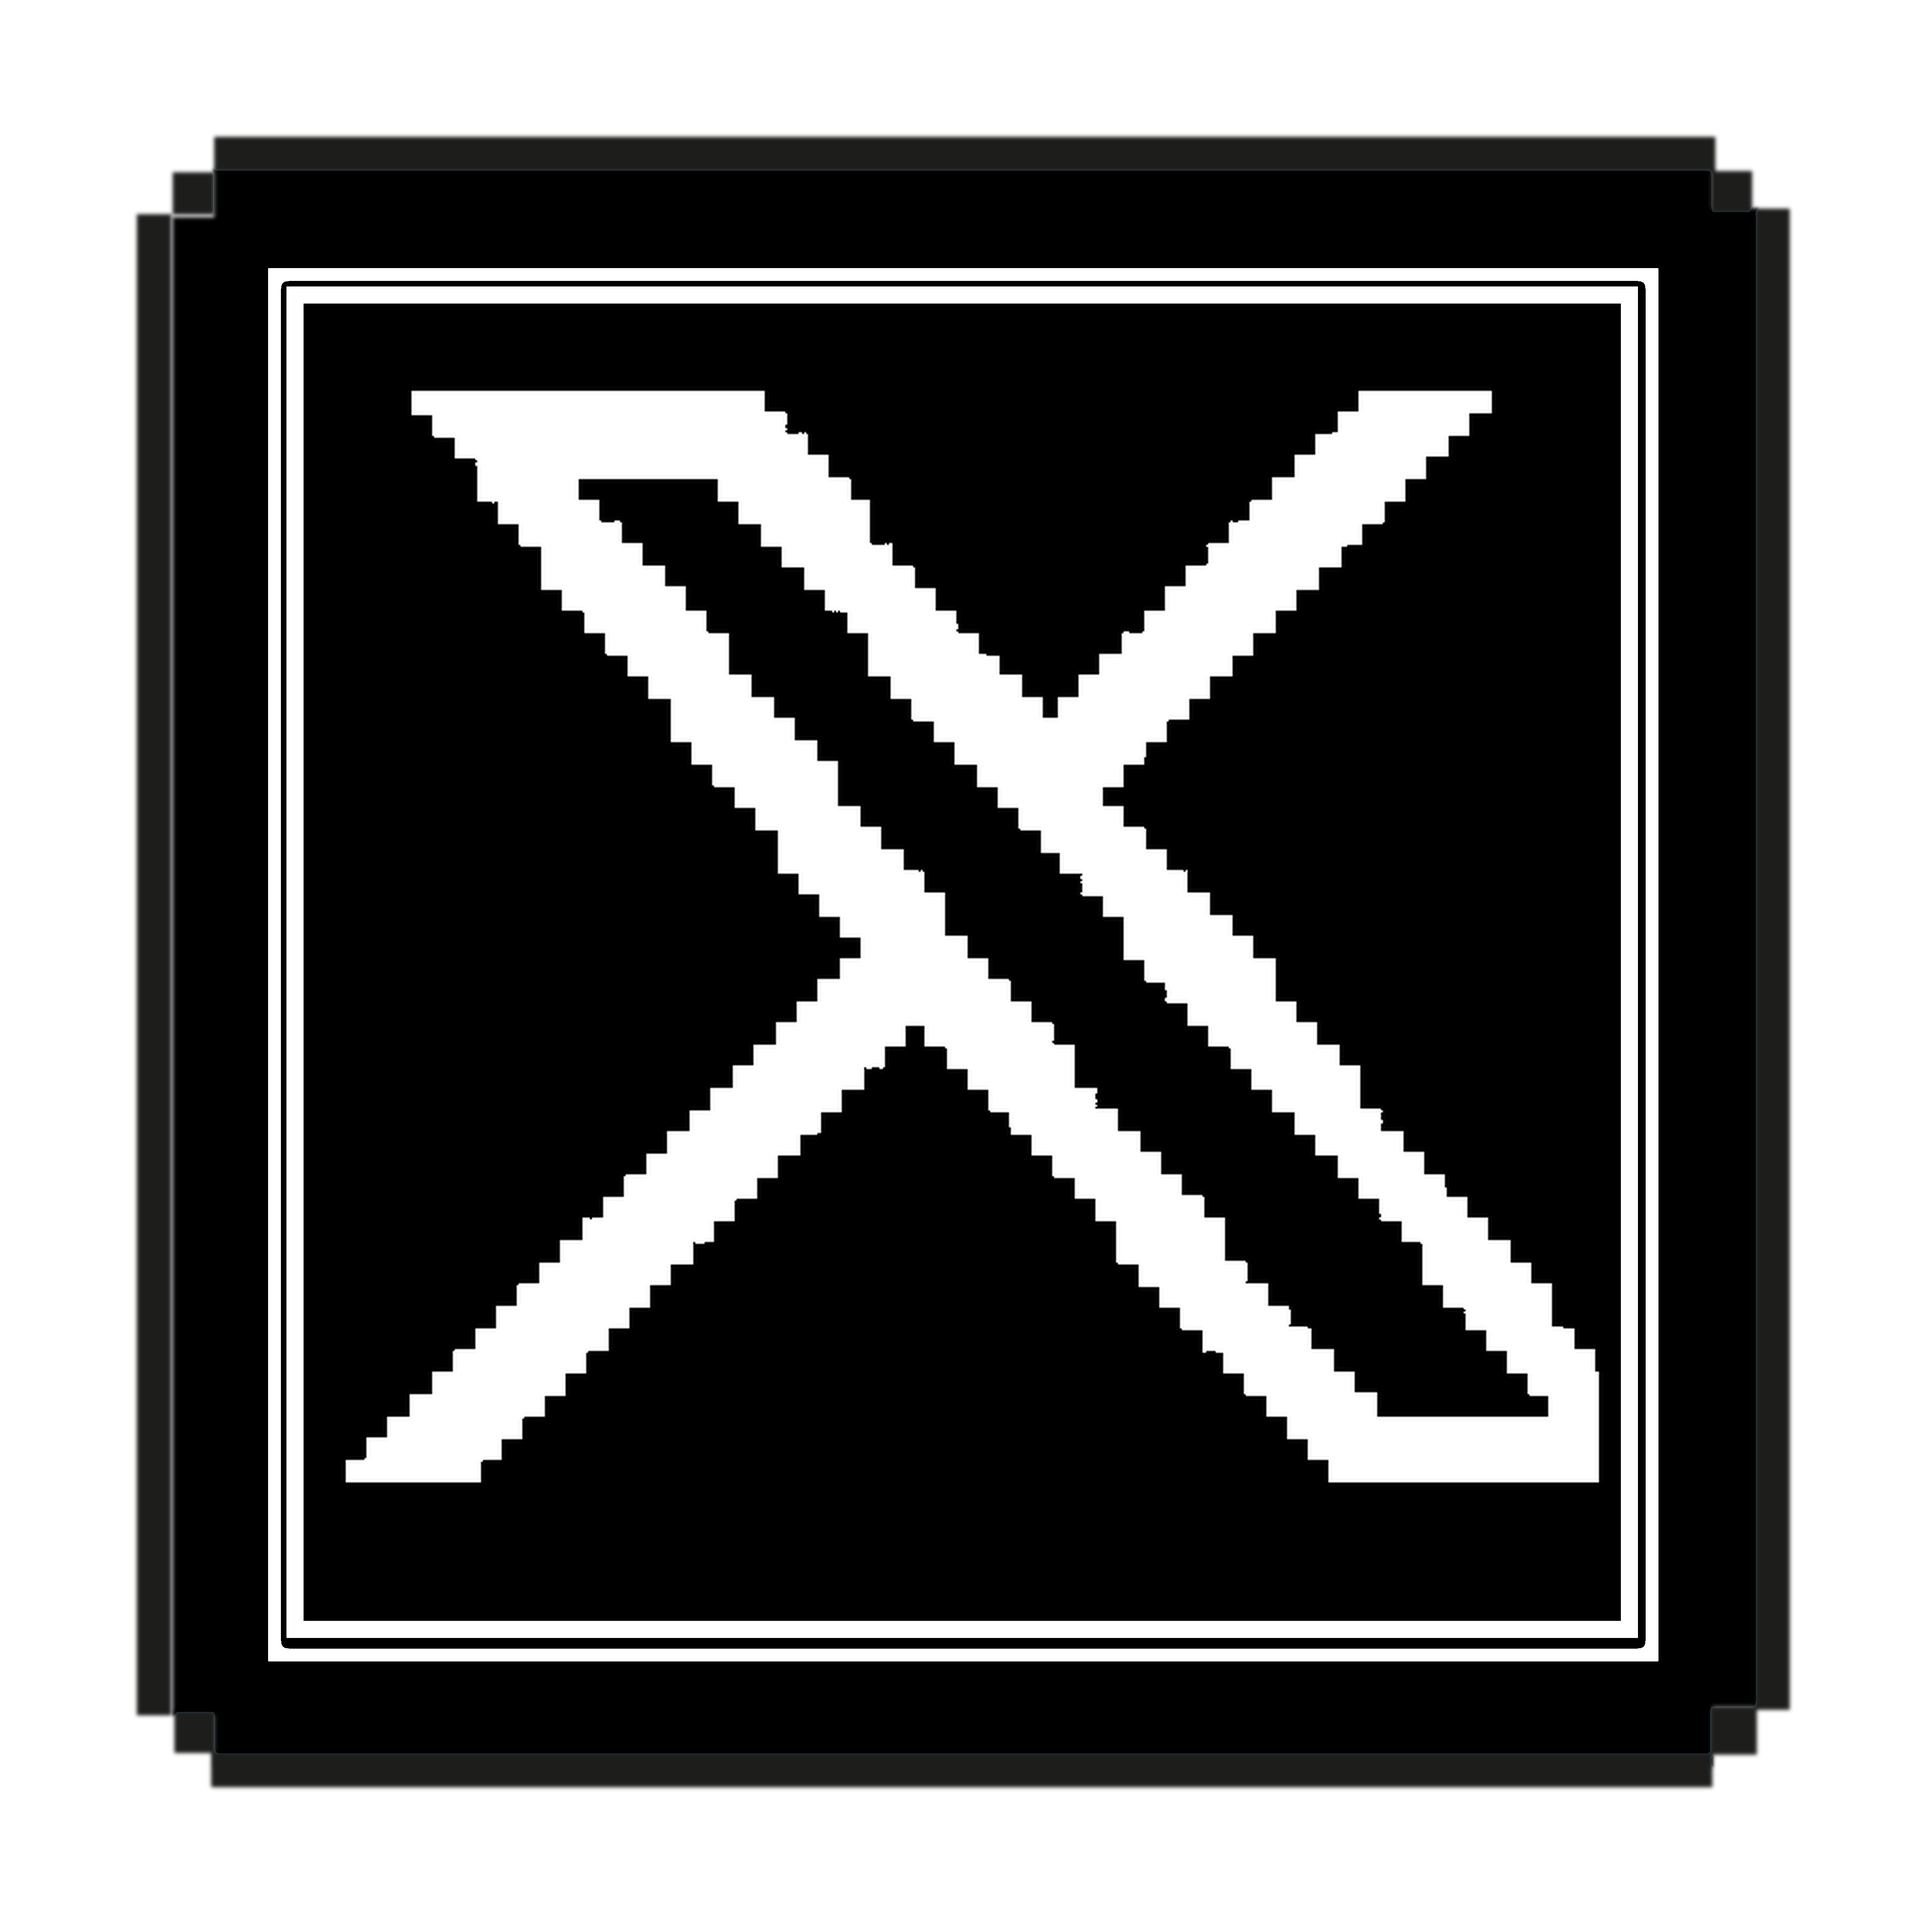
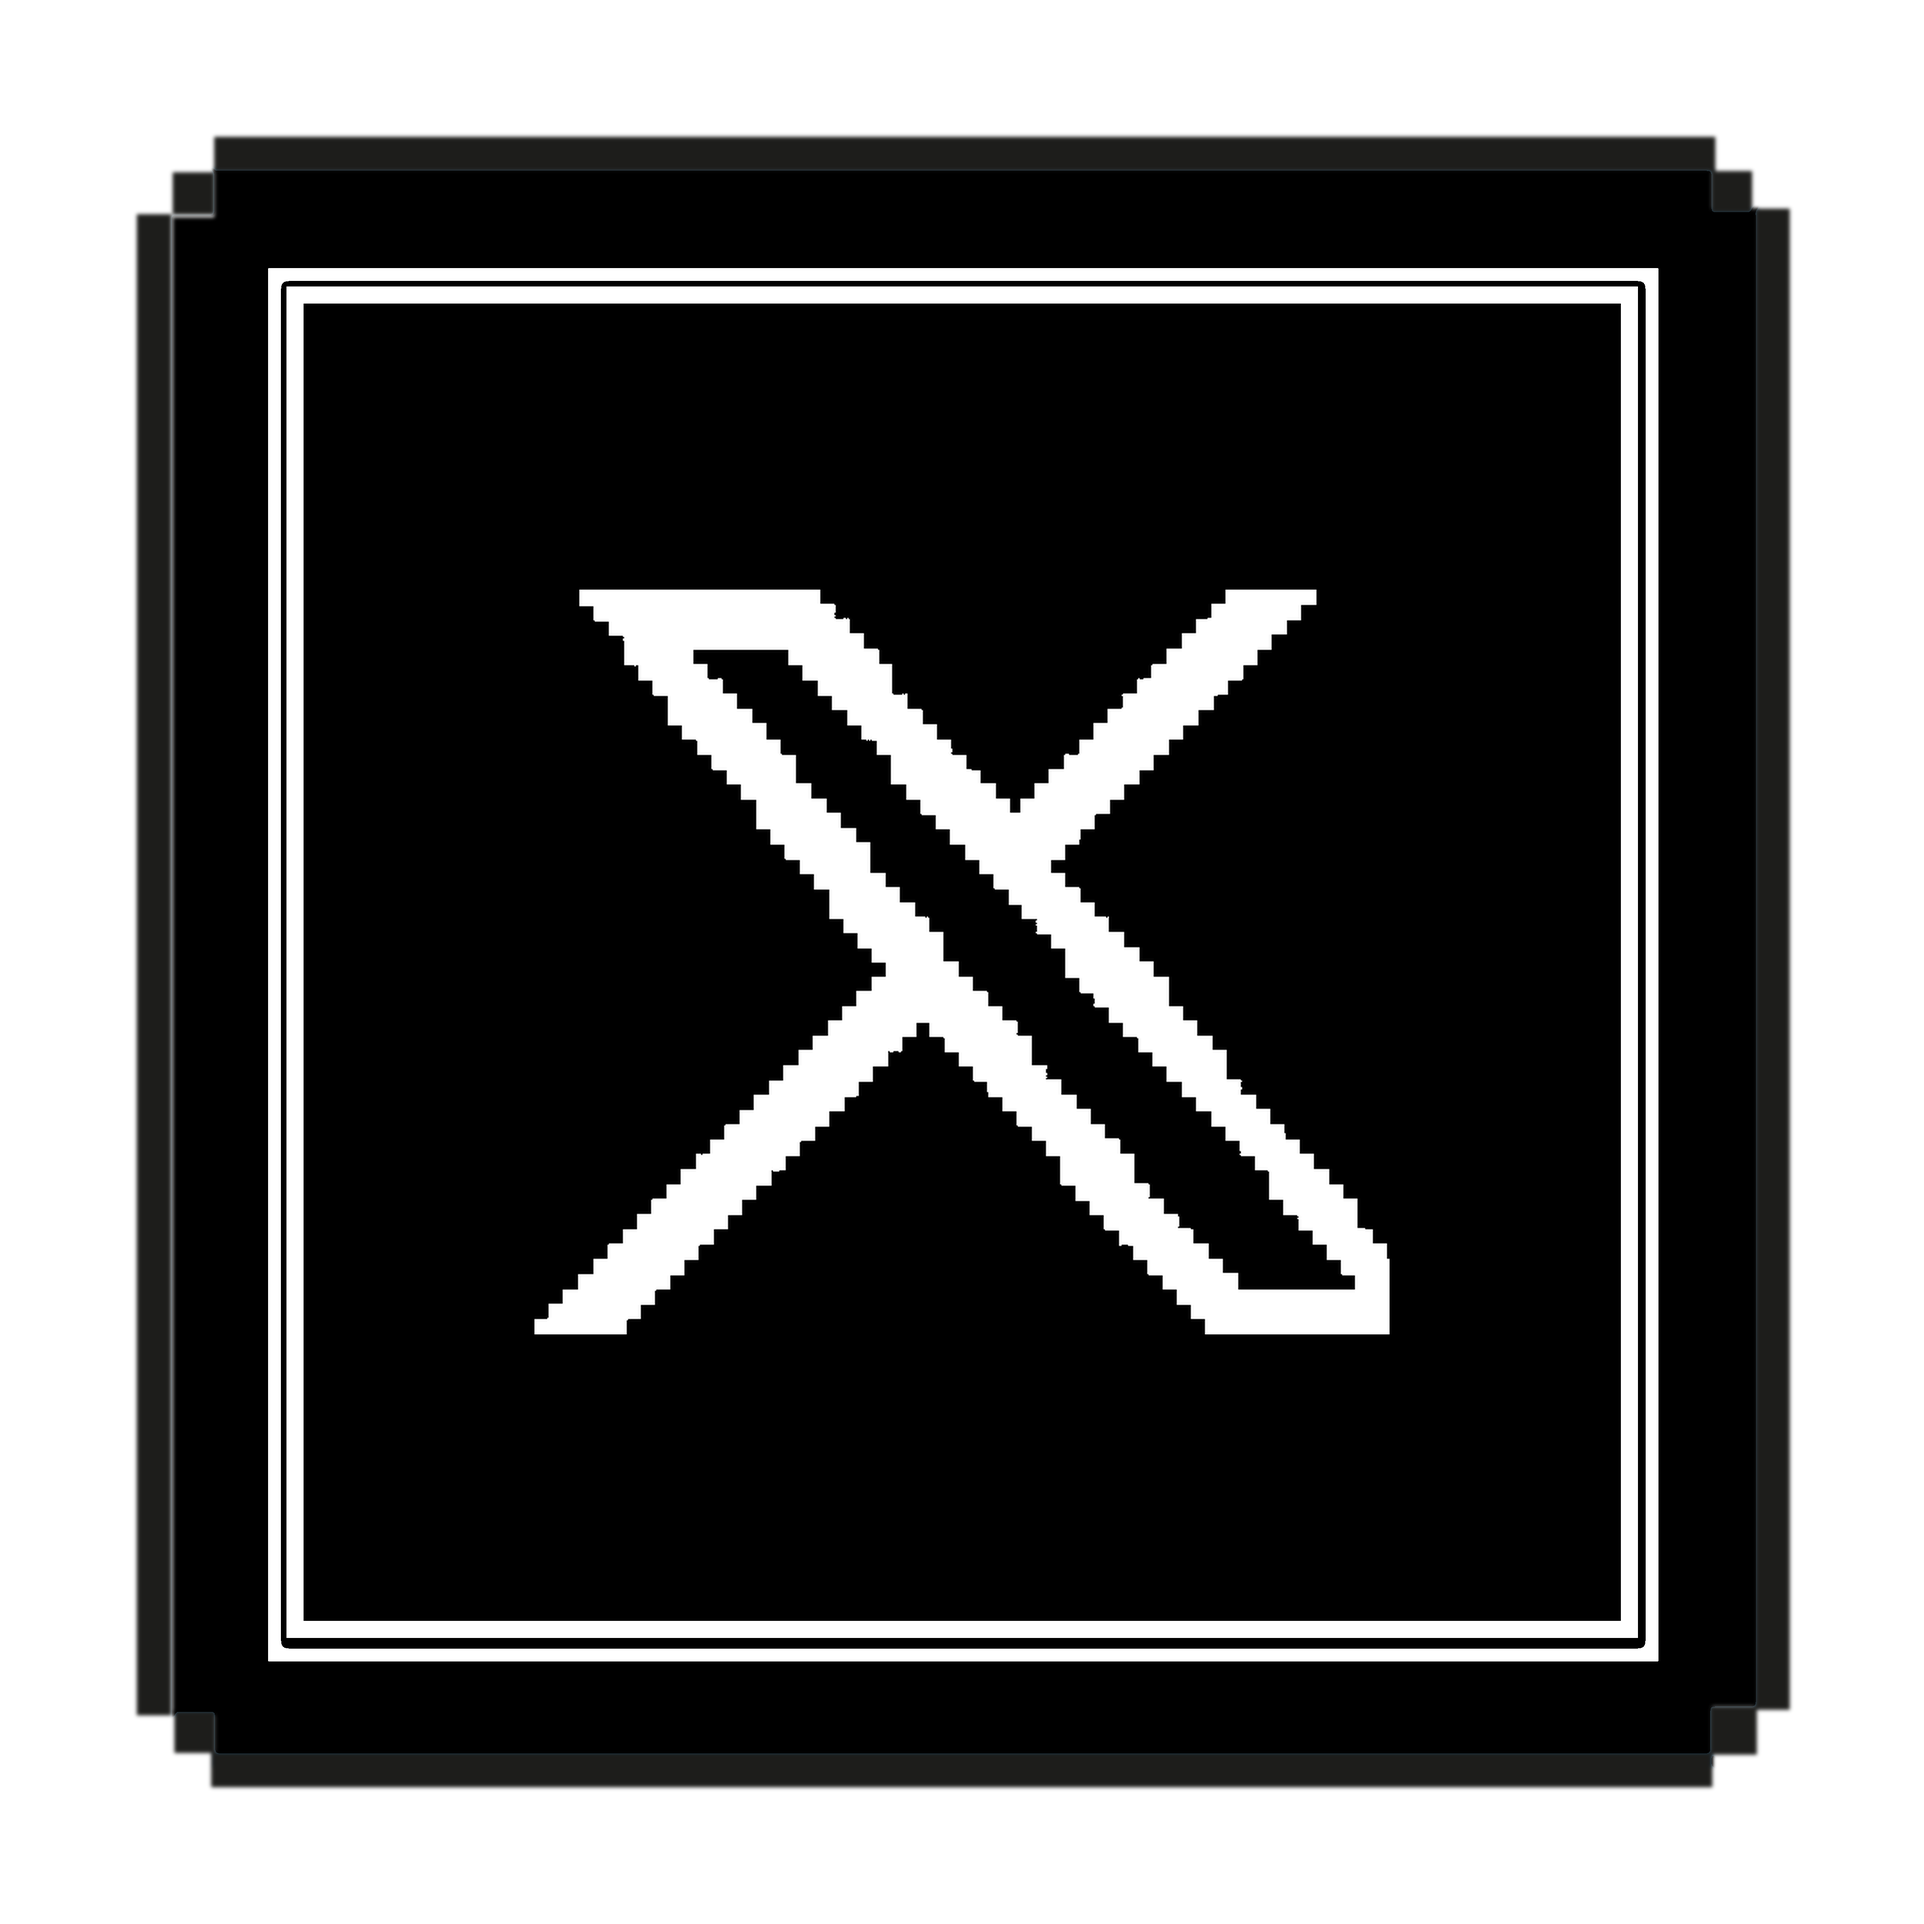
Shrink X glyph and fix window title-bar scroll bug
X icon now matches the breathing-room proportions of the other glyphs.
Window scrolling moves to inner #content div so the title bar stays pinned.

Changed region(s): [[0.2178, 0.1867, 0.84, 0.7778], [0.1867, 0.4978, 0.4667, 0.7778], [0.4667, 0.5289, 0.4978, 0.56]]

diff --git a/main.js b/main.js
@@ -172,7 +172,7 @@ class Window extends HTMLElement {
     render() {
         this.shadow.innerHTML = "";
         const style = document.createElement("style");
-        style.innerText = `:host{position: fixed;top: ${this.top}px;left: ${this.left}px;z-index: ${this.index};background-color: white;display: none;border: solid 2px #666;box-shadow: 5px 5px 5px;resize: both;}#buttons{position: absolute;right: 0;top: 0;}#window{display: flex;flex-flow: column;height: 100%;}#top{flex: 0 1 auto;width: 100%;text-align: center;background-color: #888;cursor: move;position: relative;}#top > div > button {height: 25px;}#winTitle{line-height: 25px;cursor: inherit;}#content{flex: 1 1 auto;position: relative;min-height: 205px;}#border{height: 10px;flex: 0 0 auto;}    `;
+        style.innerText = `:host{position: fixed;top: ${this.top}px;left: ${this.left}px;z-index: ${this.index};background-color: white;display: none;border: solid 2px #666;box-shadow: 5px 5px 5px;resize: both;}#buttons{position: absolute;right: 0;top: 0;}#window{display: flex;flex-flow: column;height: 100%;}#top{flex: 0 1 auto;width: 100%;text-align: center;background-color: #888;cursor: move;position: relative;}#top > div > button {height: 25px;}#winTitle{line-height: 25px;cursor: inherit;}#content{flex: 1 1 auto;position: relative;min-height: 205px;overflow: auto;}#border{height: 10px;flex: 0 0 auto;}    `;
         const _window = document.createElement("div");
         _window.id = "window", _window.addEventListener("click", () => {
             this.bringFront()

diff --git a/index.html b/index.html
@@ -46,12 +46,12 @@
     </fos-bar>
 
     <fos-window name="coolpicture" title="Cool Picture"
-        style="display: block; left: 786px; top: 62px; width: 530px; height: 513.438px;overflow: auto;">
+        style="display: block; left: 786px; top: 62px; width: 530px; height: 513.438px;">
         <img src="./sources/me.jpg" width="700" height="800">
     </fos-window>
 
     <fos-window name="aboutme" title="About Me"
-        style="display: block;left: 586px; top: 262px; width: 530px; height: 300px;overflow: auto;">
+        style="display: block;left: 586px; top: 262px; width: 530px; height: 300px;">
         <h3>Vairo Di Pasquale</h3>
         <p>Lead AI/ML Software Engineer, MSc in AI and BSc in CS @ University of Bologna</p>
         <br>
@@ -75,7 +75,7 @@
     </fos-window>
 
     <fos-window name="projects" title="Projects" id="Projects"
-        style="display: block; left: 250px; top: 150px; width: 1000px; height: 500px; overflow:auto ">
+        style="display: block; left: 250px; top: 150px; width: 1000px; height: 500px;">
 
         <h1>Projects</h1>
         <hr style="height:10px;border:none;color:#333;background-color:#333;" />
@@ -280,7 +280,7 @@
     </fos-window>
 
     <fos-window name="Timeline" title="News" id="Timeline"
-        style="display: block; left: 120px; top: 220px; width: 500px; height: 400px;overflow: auto;">
+        style="display: block; left: 120px; top: 220px; width: 500px; height: 400px;">
         
         <div class="timeline-area">
             <div class="container">
